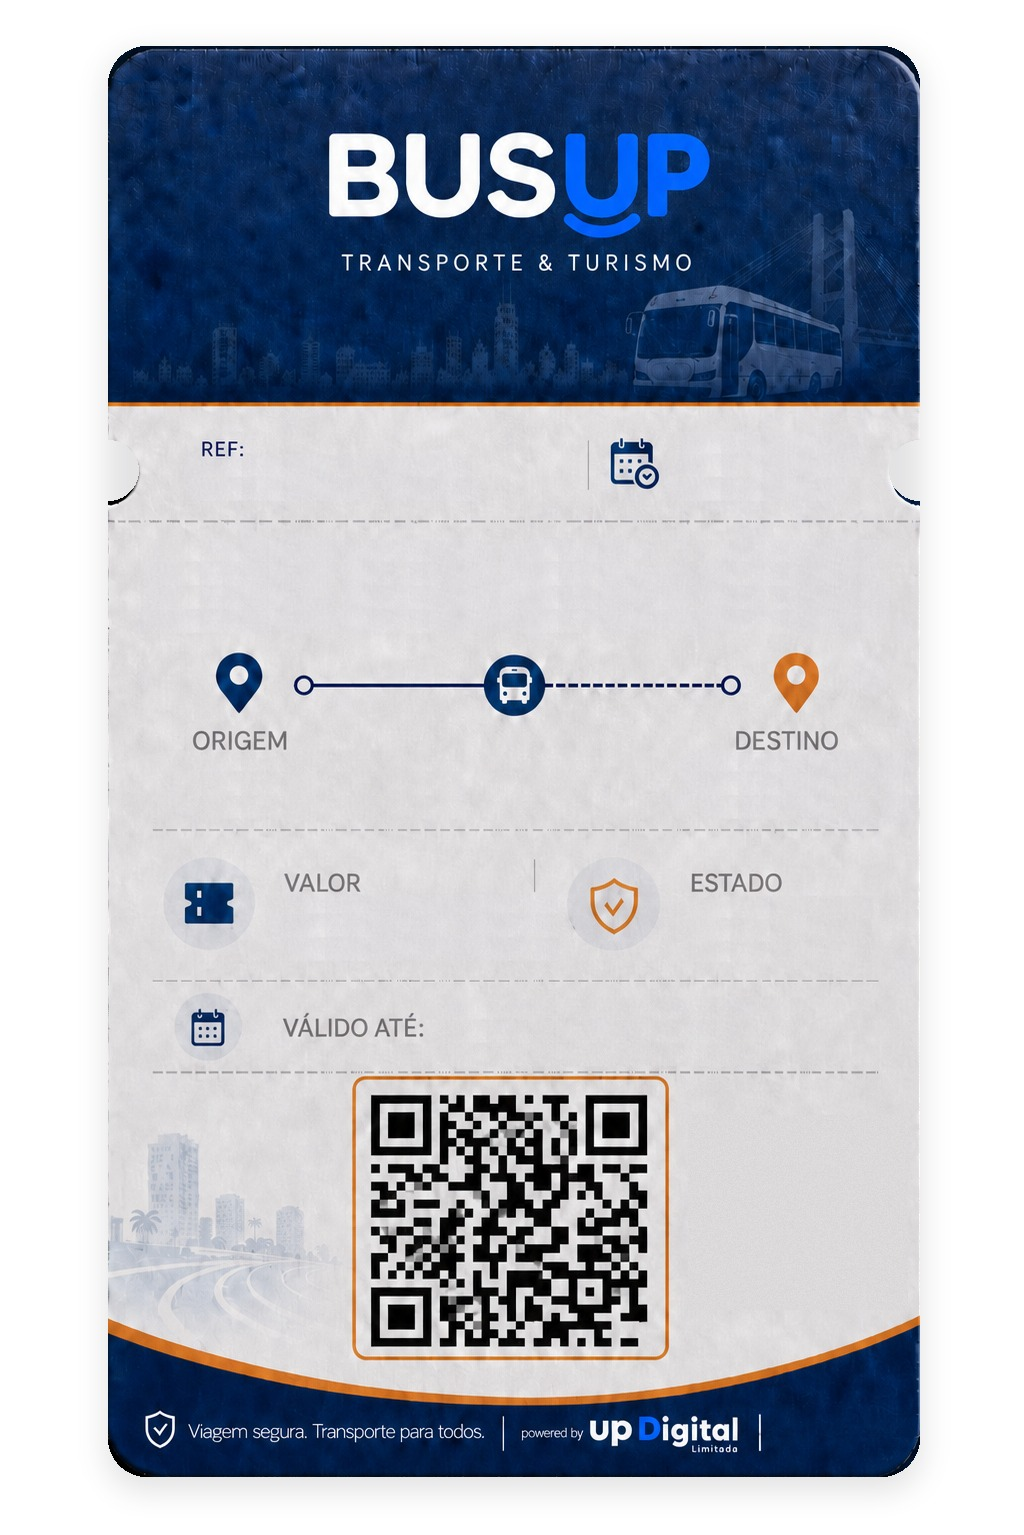
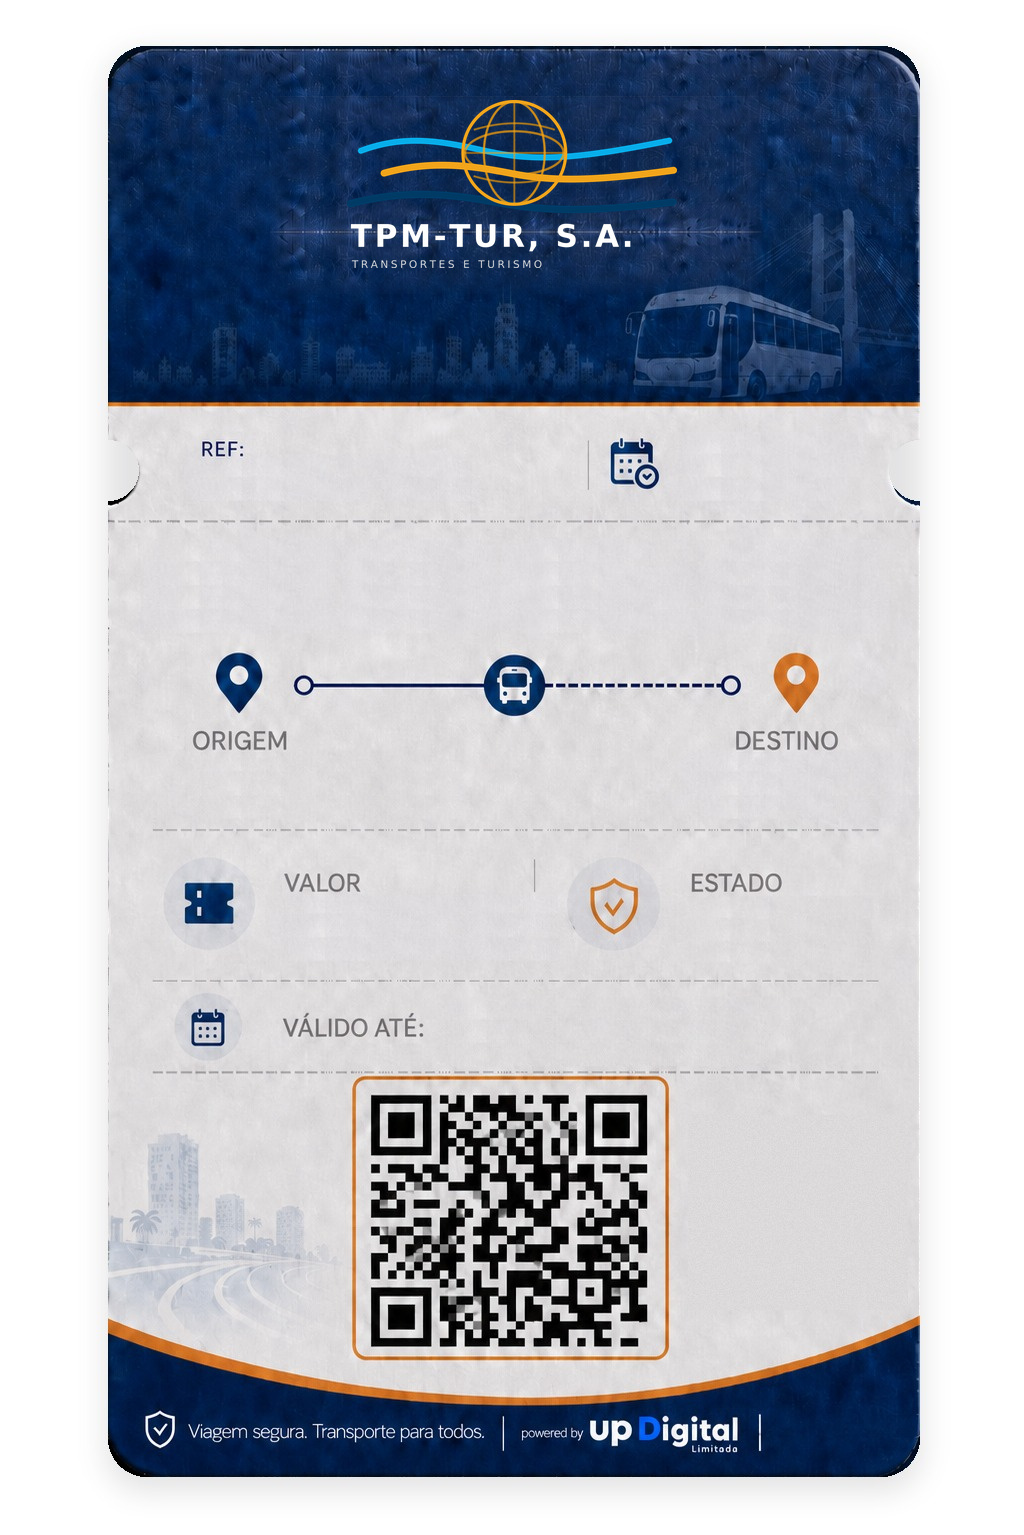
feat(marca): TPM-TUR nos bilhetes, no portal e nas apps
Apresentacao ao cliente hoje. O logo do bilhete nao vinha de configuracao
nenhuma: estava desenhado dentro do JPG do template. Foi apagado da faixa
azul (reconstruindo a textura a partir das colunas de cima, para nao ficar
um rectangulo remendado) e substituido pelo TPM-TUR.

A tagline antiga so se via com limiar baixo mas chegava a x=725, mais longe
do que a medicao inicial dizia — deixava um "TURISMO" fantasma ao lado do
logo novo. A caixa apagada foi alargada ate 762, onde ainda nao comeca a
ilustracao da ponte.

Os JPG originais ficam ao lado como `*_busup.jpg`, para voltar atras num
`cp`. O portal e as apps leem os logos do branding (configuraveis sem
recompilar); a app do passageiro desenha o bilhete a partir dos mesmos JPG,
por isso esses tem de vir no pacote.

Sai tambem a seccao "Embarcar" da landing, com o telemovel animado do lado.

Changed region(s): [[0.2812, 0.0612, 0.7188, 0.1837]]

diff --git a/frontend/src/public/LandingPage.tsx b/frontend/src/public/LandingPage.tsx
@@ -222,32 +222,27 @@ export default function LandingPage() {
               </div>
             </Reveal>
 
-            {[
-              { media: <ProductImg src="/landing/compra.webp" alt="" width={1400} height={900} />, flip: false },
-              { media: <img src="/landing/bordo-anim.webp" alt="" width={760} height={900} loading="lazy" decoding="async" />, flip: true },
-            ].map((row, i) => {
-              const s = t.how.steps[i];
-              return (
-                <Reveal key={s.h3}>
-                  <div className={`bzlp-row${row.flip ? " flip" : ""}`}>
-                    <div className="bzlp-row-media">{row.media}</div>
-                    <div>
-                      {"live" in s && s.live ? <div className="bzlp-live"><i aria-hidden />{s.live}</div> : null}
-                      <div className="bzlp-kicker left">{s.kicker}</div>
-                      <h3>{s.h3}</h3>
-                      <p>{s.text}</p>
-                      {s.facts.length > 0 && (
-                        <ul className="bzlp-facts">
-                          {s.facts.map((f) => (
-                            <li key={f}><CheckCircle2 size={17} aria-hidden /> {f}</li>
-                          ))}
-                        </ul>
-                      )}
-                    </div>
+            {t.how.steps.map((s) => (
+              <Reveal key={s.h3}>
+                <div className="bzlp-row">
+                  <div className="bzlp-row-media">
+                    <ProductImg src="/landing/compra.webp" alt="" width={1400} height={900} />
                   </div>
-                </Reveal>
-              );
-            })}
+                  <div>
+                    <div className="bzlp-kicker left">{s.kicker}</div>
+                    <h3>{s.h3}</h3>
+                    <p>{s.text}</p>
+                    {s.facts.length > 0 && (
+                      <ul className="bzlp-facts">
+                        {s.facts.map((f) => (
+                          <li key={f}><CheckCircle2 size={17} aria-hidden /> {f}</li>
+                        ))}
+                      </ul>
+                    )}
+                  </div>
+                </div>
+              </Reveal>
+            ))}
           </div>
         </section>
 

diff --git a/frontend/src/public/landing/landing.css b/frontend/src/public/landing/landing.css
@@ -309,11 +309,9 @@
 /* Linhas alternadas imagem + texto (a página lê-se por imagem) */
 .bzlp-row{display:grid;grid-template-columns:1.06fr .94fr;gap:52px;align-items:center}
 .bzlp-row + .bzlp-row{margin-top:66px}
-.bzlp-row.flip .bzlp-row-media{order:2}
 @media(max-width:900px){
   .bzlp-row{grid-template-columns:1fr;gap:26px}
   .bzlp-row + .bzlp-row{margin-top:44px}
-  .bzlp-row.flip .bzlp-row-media{order:0}
 }
 .bzlp-row-media img{display:block;width:100%;height:auto;border-radius:18px;
   box-shadow:0 22px 50px rgba(6,20,38,.28)}
@@ -323,11 +321,6 @@
 .bzlp-facts{list-style:none;margin:18px 0 0;padding:0;display:grid;gap:10px}
 .bzlp-facts li{display:flex;gap:10px;align-items:flex-start;font-size:14.5px;color:var(--ink)}
 .bzlp-facts svg{flex:0 0 auto;color:var(--blue);margin-top:3px}
-.bzlp-live{display:inline-flex;align-items:center;gap:7px;font-size:11px;font-weight:800;
-  letter-spacing:.14em;text-transform:uppercase;color:var(--ok);
-  background:rgba(42,157,143,.12);border-radius:30px;padding:5px 12px;margin-bottom:4px}
-.bzlp-live i{width:7px;height:7px;border-radius:50%;background:var(--ok);animation:bzlp-pulse 1.8s ease-in-out infinite}
-@keyframes bzlp-pulse{0%,100%{opacity:1}50%{opacity:.25}}
 
 /* Formulário */
 .bzlp-form{background:var(--surface);border:1px solid var(--line);border-radius:18px;padding:26px;

diff --git a/frontend/src/public/landing/landing-copy.ts b/frontend/src/public/landing/landing-copy.ts
@@ -51,11 +51,6 @@ export const COPY = {
           text: "No site ou na app, pago com M-Pesa ou e-Mola, em menos de um minuto.",
           facts: [],
         },
-        {
-          kicker: "Embarcar", h3: "O embarque valida-se em segundos.",
-          text: "O agente confirma o bilhete a bordo e a receita fica registada na hora.",
-          facts: [], live: "App real",
-        },
       ],
     },
     platform: {
@@ -159,11 +154,6 @@ export const COPY = {
           kicker: "Buy", h3: "Tickets are bought on the phone.",
           text: "On the website or the app, paid with M-Pesa or e-Mola, in under a minute.",
           facts: [],
-        },
-        {
-          kicker: "Board", h3: "Boarding is validated in seconds.",
-          text: "The agent confirms the ticket on board and revenue is recorded on the spot.",
-          facts: [], live: "Real app",
         },
       ],
     },
